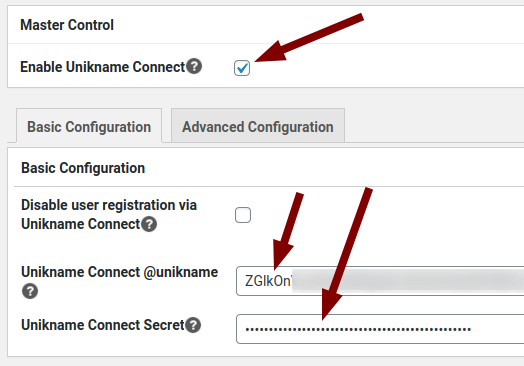
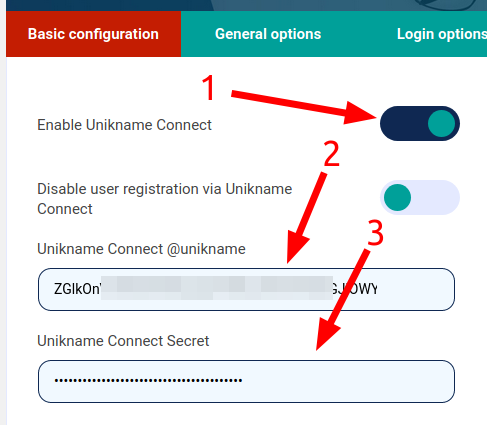
docs(wp): update screenshots with new plugin UI

diff --git a/docs/3-unikname-connect/integration-technology/woocommerce/README.md b/docs/3-unikname-connect/integration-technology/woocommerce/README.md
@@ -21,10 +21,12 @@ WordPress is used by more than 60 million websites, it is one of the most popula
 WordPress was originally created as a blog-publishing system but has evolved to support other types of web content: corporate website, media galleries, online stores... such as with WooCommerce extension.
 
 :::tip Example
-Many WooCommerce websites are running with Unikname Connect such as [La Bande Du Coin](https://www.demo.labandeducoin.fr/) or  [Cryptomaniac](https://www.cryptomaniac.fr) to give you some examples...
+Many WooCommerce websites are running with Unikname Connect such as [La Bande Du Coin](https://www.demo.labandeducoin.fr/) or  [Cryptomaniac](https://www.cryptomaniac.fr) to give you some examples.
 
 👉 You're welcome to look at them and to see how they've integrated the <brand name="UNC"/> Button.
 :::
+
+**Table of content**
 
 [[TOC]]
 
@@ -89,11 +91,23 @@ $ composer require wpackagist-plugin/unikname-connect
 
 <hpicture>![Unikname Connect for WordPress basic configuration](../wordpress/wordpress-config1.png)</hpicture>
 
-### Advanced configuration
+### Pages options
 
-You can also configure some extra parameters in the `Advanced` tab of the plugin, such as selecting the page where you want to see the Sign-up / Login button.
+You can then configure on which pages of your WordPress site you want to display the Unikname Connect button:
+
+- WordPress pages
+
+<hpicture>![Unikname Connect for WordPress pages configuration](../wordpress/wordpress-config3.png)</hpicture>
+
+- WooCommerce pages
 
 <hpicture>![Unikname Connect for WordPress advanced configuration, with configurations for WooCommerce](../wordpress/wordpress-config2.png)</hpicture>
+
+### Unikname Connect buttons style
+
+You can also fine-tune the style options of the Unikname Connect buttons:
+
+<hpicture>![Unikname Connect for WordPress buttons style configuration](../wordpress/wordpress-config4.png)</hpicture>
 
 **All done!**
 

diff --git a/docs/3-unikname-connect/integration-technology/wordpress/README.md b/docs/3-unikname-connect/integration-technology/wordpress/README.md
@@ -17,10 +17,12 @@ WordPress is used by more than 60 million websites, it is one of the most popula
 WordPress was originally created as a blog-publishing system but has evolved to support other types of web content: corporate website, media galleries, online stores...
 
 :::tip Example
-Many WordPress websites are running with Unikname Connect such as [La Bande Du Coin](https://www.demo.labandeducoin.fr/) or  [Cryptomaniac](https://www.cryptomaniac.fr) to give you some examples...
+Many WordPress websites are running with Unikname Connect such as [La Bande Du Coin](https://www.demo.labandeducoin.fr/) or  [Cryptomaniac](https://www.cryptomaniac.fr) to give you some examples.
 
 👉 You're welcome to look at them and to see how they've integrated the <brand name="UNC"/> Button.
 :::
+
+**Table of content**
 
 [[TOC]]
 
@@ -85,9 +87,17 @@ $ composer require wpackagist-plugin/unikname-connect
 
 <hpicture>![Unikname Connect for WordPress basic configuration](./wordpress-config1.png)</hpicture>
 
-### Advanced configuration
+### Pages options
 
-You can also configure some extra parameters in the `Advanced` tab of the plugin, such as selecting the page where you want to see the Sign-up / Login button.
+You can then configure on which pages of your WordPress site you want to display the Unikname Connect button:
+
+<hpicture>![Unikname Connect for WordPress pages configuration](./wordpress-config3.png)</hpicture>
+
+### Unikname Connect buttons style
+
+You can also fine-tune the style options of the Unikname Connect buttons:
+
+<hpicture>![Unikname Connect for WordPress buttons style configuration](./wordpress-config4.png)</hpicture>
 
 **All done!**
 

diff --git a/docs/3-unikname-connect/integration-technology/nodejs/README.md b/docs/3-unikname-connect/integration-technology/nodejs/README.md
@@ -19,6 +19,8 @@ tags:
 <brand name="UNC"/> can be integrated with any Node.js based web applications.
 [Node.js](https://nodejs.org/) is an open-source, cross-platform, back-end, JavaScript runtime environment that executes JavaScript code outside a web browser. Node.js lets developers use JavaScript for server-side scripting—running scripts server-side to produce dynamic web page content before the page is sent to the user's web browser.
 
+**Table of content**
+
 [[TOC]]
 
 <hseparator/>
